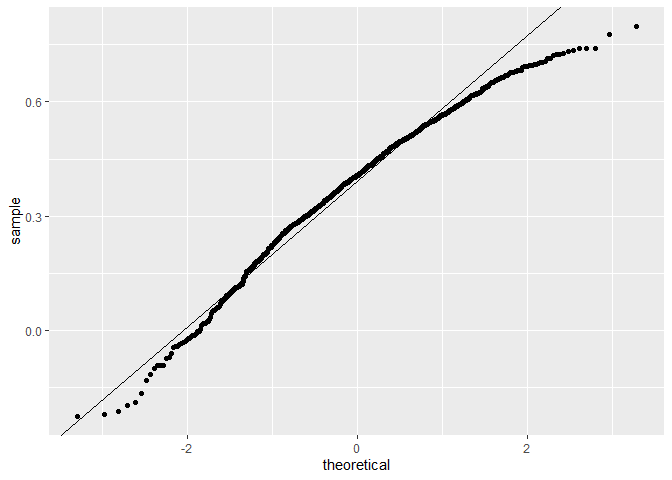
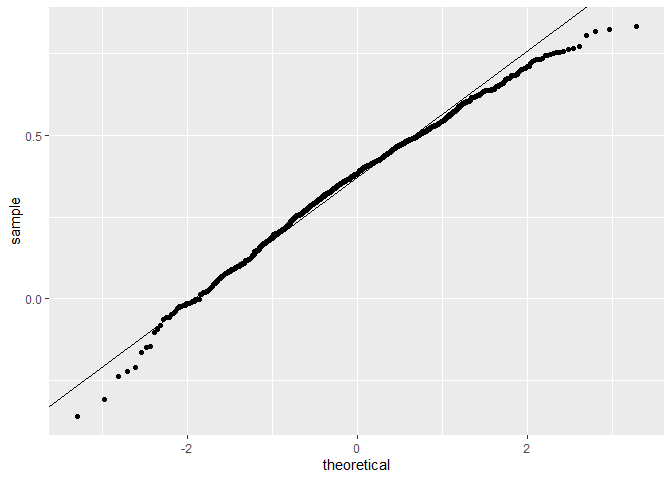
Update Galton html title

diff --git a/galton_heights/galton_markdown.html b/galton_heights/galton_markdown.html
@@ -14,7 +14,7 @@
 
 <meta name="date" content="2021-09-04" />
 
-<title>Study on Sabermetrics and Linear Regression</title>
+<title>Study on Linear Regression in Galton Heights Data</title>
 
[1 lines of base64/hex data omitted]
 
@@ -129,7 +129,7 @@ a.sourceLine {
 
 
 <section class="page-header">
-<h1 class="title toc-ignore project-name">Study on Sabermetrics and Linear Regression</h1>
+<h1 class="title toc-ignore project-name">Study on Linear Regression in Galton Heights Data</h1>
 <h4 class="author project-author">Juan Lamilla</h4>
 <h4 class="date project-date">09/04/2021</h4>
 </section>
@@ -174,12 +174,12 @@ a.sourceLine {
 <pre><code>## # A tibble: 1 x 4
 ##   `mean(father)` `sd(father)` `mean(son)` `sd(son)`
 ##            &lt;dbl&gt;        &lt;dbl&gt;       &lt;dbl&gt;     &lt;dbl&gt;
-## 1           69.1         2.55        69.3      2.56</code></pre>
+## 1           69.1         2.55        69.3      2.72</code></pre>
 <div class="sourceCode" id="cb8"><pre class="sourceCode r"><code class="sourceCode r"><span id="cb8-1"><a href="#cb8-1" aria-hidden="true" tabindex="-1"></a><span class="co"># scatterplot of father and son heights</span></span>
 <span id="cb8-2"><a href="#cb8-2" aria-hidden="true" tabindex="-1"></a>galton_heights <span class="sc">%&gt;%</span></span>
 <span id="cb8-3"><a href="#cb8-3" aria-hidden="true" tabindex="-1"></a>  <span class="fu">ggplot</span>(<span class="fu">aes</span>(father, son)) <span class="sc">+</span></span>
 <span id="cb8-4"><a href="#cb8-4" aria-hidden="true" tabindex="-1"></a>  <span class="fu">geom_point</span>(<span class="at">alpha =</span> <span class="fl">0.5</span>)</span></code></pre></div>
[2 lines of base64/hex data omitted]
 <div id="calculating-correlation-coefficient" class="section level3">
 <h3>Calculating Correlation Coefficient</h3>
 <p>Using the following examples, we may calculate the correlation coefficient to determine how related two variables are, conveying how they move together. The correlation coefficient is defined for a list of pairs <span class="math inline">\((x_1, y_1), \dots, (x_n,y_n)\)</span> as the product of the standardized values, so the formula is as follows:</p>
@@ -188,7 +188,7 @@ a.sourceLine {
 \]</span> Using this formula we can calculate the correlation coefficient between the father and sons height.</p>
 <div class="sourceCode" id="cb9"><pre class="sourceCode r"><code class="sourceCode r"><span id="cb9-1"><a href="#cb9-1" aria-hidden="true" tabindex="-1"></a><span class="co"># Calculating correlation coefficient</span></span>
 <span id="cb9-2"><a href="#cb9-2" aria-hidden="true" tabindex="-1"></a>galton_heights <span class="sc">%&gt;%</span> <span class="fu">summarize</span>(<span class="at">r =</span> <span class="fu">cor</span>(father, son)) <span class="sc">%&gt;%</span> <span class="fu">pull</span>(r)</span></code></pre></div>
-<pre><code>## [1] 0.3927949</code></pre>
+<pre><code>## [1] 0.3732573</code></pre>
 <p>Since correlation is calculated based on a sample of data, we may further limit the sample size to see how the correlation may be warped.</p>
 <div class="sourceCode" id="cb11"><pre class="sourceCode r"><code class="sourceCode r"><span id="cb11-1"><a href="#cb11-1" aria-hidden="true" tabindex="-1"></a><span class="co"># compute sample correlation</span></span>
 <span id="cb11-2"><a href="#cb11-2" aria-hidden="true" tabindex="-1"></a>R <span class="ot">&lt;-</span> <span class="fu">sample_n</span>(galton_heights, <span class="dv">25</span>, <span class="at">replace =</span> <span class="cn">TRUE</span>) <span class="sc">%&gt;%</span></span>
@@ -197,7 +197,7 @@ a.sourceLine {
 <pre><code>## # A tibble: 1 x 1
 ##       r
 ##   &lt;dbl&gt;
-## 1 0.371</code></pre>
+## 1 0.248</code></pre>
 <p>And run a monte-carlo simulation of the sample correlation:</p>
 <div class="sourceCode" id="cb13"><pre class="sourceCode r"><code class="sourceCode r"><span id="cb13-1"><a href="#cb13-1" aria-hidden="true" tabindex="-1"></a><span class="co"># Monte Carlo simulation to show distribution of sample correlation</span></span>
 <span id="cb13-2"><a href="#cb13-2" aria-hidden="true" tabindex="-1"></a>B <span class="ot">&lt;-</span> <span class="dv">1000</span></span>
@@ -208,19 +208,19 @@ a.sourceLine {
 <span id="cb13-7"><a href="#cb13-7" aria-hidden="true" tabindex="-1"></a>    <span class="fu">pull</span>(r)</span>
 <span id="cb13-8"><a href="#cb13-8" aria-hidden="true" tabindex="-1"></a>})</span>
 <span id="cb13-9"><a href="#cb13-9" aria-hidden="true" tabindex="-1"></a><span class="fu">qplot</span>(R, <span class="at">geom =</span> <span class="st">&quot;histogram&quot;</span>, <span class="at">binwidth =</span> <span class="fl">0.05</span>, <span class="at">color =</span> <span class="fu">I</span>(<span class="st">&quot;black&quot;</span>))</span></code></pre></div>
[2 lines of base64/hex data omitted]
 <div class="sourceCode" id="cb14"><pre class="sourceCode r"><code class="sourceCode r"><span id="cb14-1"><a href="#cb14-1" aria-hidden="true" tabindex="-1"></a><span class="co"># expected value and standard error</span></span>
 <span id="cb14-2"><a href="#cb14-2" aria-hidden="true" tabindex="-1"></a><span class="fu">mean</span>(R)</span></code></pre></div>
-<pre><code>## [1] 0.391278</code></pre>
+<pre><code>## [1] 0.370806</code></pre>
 <div class="sourceCode" id="cb16"><pre class="sourceCode r"><code class="sourceCode r"><span id="cb16-1"><a href="#cb16-1" aria-hidden="true" tabindex="-1"></a><span class="fu">sd</span>(R)</span></code></pre></div>
-<pre><code>## [1] 0.1777948</code></pre>
+<pre><code>## [1] 0.1824997</code></pre>
 <p>Finally we can calculate if a sample size (N) is large enough by creating a QQ-plot</p>
 <div class="sourceCode" id="cb18"><pre class="sourceCode r"><code class="sourceCode r"><span id="cb18-1"><a href="#cb18-1" aria-hidden="true" tabindex="-1"></a><span class="co"># QQ-plot to evaluate whether N is large enough</span></span>
 <span id="cb18-2"><a href="#cb18-2" aria-hidden="true" tabindex="-1"></a><span class="fu">data.frame</span>(R) <span class="sc">%&gt;%</span></span>
 <span id="cb18-3"><a href="#cb18-3" aria-hidden="true" tabindex="-1"></a>  <span class="fu">ggplot</span>(<span class="fu">aes</span>(<span class="at">sample =</span> R)) <span class="sc">+</span></span>
 <span id="cb18-4"><a href="#cb18-4" aria-hidden="true" tabindex="-1"></a>  <span class="fu">stat_qq</span>() <span class="sc">+</span></span>
 <span id="cb18-5"><a href="#cb18-5" aria-hidden="true" tabindex="-1"></a>  <span class="fu">geom_abline</span>(<span class="at">intercept =</span> <span class="fu">mean</span>(R), <span class="at">slope =</span> <span class="fu">sqrt</span>((<span class="dv">1</span><span class="sc">-</span><span class="fu">mean</span>(R)<span class="sc">^</span><span class="dv">2</span>)<span class="sc">/</span>(N<span class="dv">-2</span>)))</span></code></pre></div>
[2 lines of base64/hex data omitted]
 </div>
 </div>
 </section>

diff --git a/galton_heights/galton_markdown.md b/galton_heights/galton_markdown.md
@@ -1,5 +1,5 @@
 ---
-title: "Study on Sabermetrics and Linear Regression"
+title: "Study on Linear Regression in Galton Heights Data"
 author: "Juan Lamilla"
 date: "09/04/2021"
 output:
@@ -67,7 +67,7 @@ galton_heights %>%
 ## # A tibble: 1 x 4
 ##   `mean(father)` `sd(father)` `mean(son)` `sd(son)`
 ##            <dbl>        <dbl>       <dbl>     <dbl>
-## 1           69.1         2.55        69.3      2.56
+## 1           69.1         2.55        69.3      2.72
 ```
 
 
@@ -96,7 +96,7 @@ galton_heights %>% summarize(r = cor(father, son)) %>% pull(r)
 ```
 
 ```
-## [1] 0.3927949
+## [1] 0.3732573
 ```
 
 Since correlation is calculated based on a sample of data, we may further limit the sample size to see how the correlation may be warped.
@@ -113,7 +113,7 @@ R
 ## # A tibble: 1 x 1
 ##       r
 ##   <dbl>
-## 1 0.371
+## 1 0.248
 ```
 
 And run a monte-carlo simulation of the sample correlation:
@@ -140,7 +140,7 @@ mean(R)
 ```
 
 ```
-## [1] 0.391278
+## [1] 0.370806
 ```
 
 ```r
@@ -148,7 +148,7 @@ sd(R)
 ```
 
 ```
-## [1] 0.1777948
+## [1] 0.1824997
 ```
 
 Finally we can calculate if a sample size (N) is large enough by creating a QQ-plot
